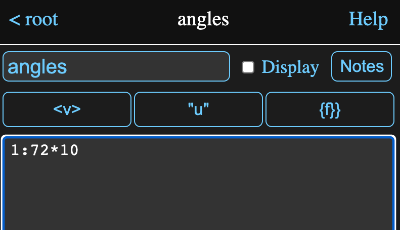
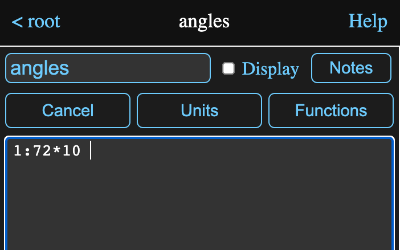
updated help files for new formula editor behaviour

Changed region(s): [[0.0, 0.0304, 1.0, 1.0], [0.03, 0.0609, 0.15, 0.1217]]

diff --git a/help/formulaeditor.html b/help/formulaeditor.html
@@ -9,7 +9,9 @@
 				rtSetupHeading('Formula Editor',{
 					fields: 'Formula Fields',
 					editor: 'Formula Editor',
-					vbrowser: 'Value Browser',
+					preview: 'Previews and Completions',
+					spacing: 'Multiple Lines and Tabs',
+					buttons: "Buttons",
 					ubrowser: 'Unit Browser',
 					fbrowser: 'Function Browser',
 				});
@@ -52,68 +54,103 @@
 					entered or modified, along with a number of buttons and a preview area.
 				</p>
 				<img src="formulaedit.png" alt="formula editor"/>
-				<p>
-					When the formula editor appears, the current formula, if any, will appear in the text area
-					with any cursor position or selection from the formula field maintained. The preview area
-					will show the result of evaluating this formula.
-				</p>
-				<p>
-					As you enter or edit the formula, you can tap the <b>Preview Button</b> or type shift-enter
-					to evaluate the current formula in the preview area. If you select only a part of the formula
-					before previewing, only the selected portion will be evaluated. This is a handy way to debug
-					complicated formulas.
-				</p>
-				<p>
-					Tapping the <b>Current</b> button or type alt-enter (option-enter on a Mac), will once again
-					preview the original formula.
-				</p>
-				<p>
-					In more complex formulas and with some functions, it is common to space the formula out
-					over multiple lines and use tabs to improve the readability. There are a couple of features
-					to assist with this.
-				</p>
-				<p>
-					When you add a new line to an already indented line, the editor will automatically match
-					the indentation.
-				</p>
-				<p>
-					You can increase or decrease the indentation of by selecting multiple lines and then typing
-					<b>tab</b> or <b>shift-tab</b> respectively.
-				</p>
-				<p>
-					The <b>Cancel</b> button (escape key) will exit the formula editor without
-					saving any of the changes. The <b>Apply</b> button <b>(shift-enter)</b> will exit the
-					formula editor and any exit other than cancelling will assign the changes to the formula.
-				</p>
-				<p>
-					The top three buttons open helper views where you can select elements to be inserted into
-					the formula:
-				</p>
-				<div id="vbrowser" class="subsection">
-					<h3>&lt;v&gt; - Value Browser (shift-ctrl-v)</h3>
-					<p>	
-						Shows the available tools and parameters that you can insert into the formula. When
-						first invoked, the available parameters will be the tools in the current model or in the
-						case of the formula belonging to an input expression, the parent
-						<a href="model.html">model</a>.
+				<div id="preview" class="section">
+					<h3>Previews &amp; Completions</h3>
+					<p>
+						When the formula editor appears, the current formula, if any, will appear in the text area
+						with any cursor position or selection from the formula field maintained. What appears in
+						the preview area will depend on the cursor position and the formula.
 					</p>
 					<p>
-						If you select a <a href="model.html">model</a>, then its name will appear below the
-						buttons and the available parameters will be its tools.  When you select another type
-						of tool, the available parameters for that tool will appear.  For instance
-						the <a href="matrix.html">matrix tool</a> has parameters for the number of columns or rows it
-						has.
+						If the cursor is in a position where it appears a reference to another tool might be
+						appropriate, as in the case above where the formula is blank, then a list of available
+						tools appears in the preview area. In this case, the expression has been created in the
+						tools.models.circle model of the Getting Started session and the values represent its tools.
 					</p>
 					<p>
-						In the example below, the first selection was the <a href="model.html">model</a> named
-						"circle", which contains an <a href="expression.html">expression</a> named "area".
-						When area was in turn selected, it was added to the expression below the buttons.
-						Tapping on <b>Insert</b> at this point would insert "circle.area" into the formula.
+						If there are characters in front of the cursor, the list will be reduced to items starting
+						with those characters.
 					</p>
-					<img src="valuebrowser.png" alt="value browser"/>
+					<img src="formulaedit2.png" alt="reduced parameter preview"/>
+					<p>
+						Tapping on a element in the preview area will insert it into the formula. You can also type
+						a tab character or a period to insert the top element of the list, as long as at least one
+						character has already been typed.
+					</p>
+					<p>
+						If the cursor is preceded by a brace, <b>{</b>, then all the available functions are listed
+						in the preview area, with the list being reduced as additional characters are entered.
+					</p>
+					<img src="formulaedit3.png" alt="function preview"/>
+					<p>
+						Tapping on an element of the preview list, or typing a tab character, will insert the
+						function in the formula and place the cursor before the first argument.
+					</p>
+					<img src="formulaedit4.png" alt="inserted function"/>
+					<p>
+						If the cursor is preceded by a ?, white space and the function name, then a brief
+						description of the function and its arguments will appear in the preview area.
+					</p>
+					<img src="formulaedit5.png" alt="function description"/>
+					<p>
+						If the cursor is preceded by a value name and a dot, then the available parameters
+						for that value are listed in the preview area.
+					</p>
+					<img src="formulaedit6.png" alt="dot parameter preview"/>
+					<p>
+						If the cursor isn't preceded by something where a suggestion in appropriate, then the
+						preview area will show the last previewed calculation value. Initially this will be the
+						value of the original formula before editing. 
+					</p>
+					<img src="formulaedit7.png" alt="area va;ue preview"/>
+					<p>
+						Here the cursor is at the end of the formula for area in that circle model and a value
+						reference or function call would not be appropriate.
+					</p>
+					<p>
+						As you enter or edit the formula, you can tap the Preview Button or type ctrl-enter to
+						evaluate the current (edited) formula in the preview area regardless of the cursor position.
+						If you select only a part of the formula before previewing, only the selected portion
+						will be evaluated. This is a handy way to debug complicated formulas.
+					</p>
+					<p>
+						Tapping the <b>Current</b> button or type alt-enter (option-enter on a Mac), will
+						preview the original unedited formula.
+					</p>
 				</div>
-				<div id="ubrowser" class="subsection">
-					<h3>"u" - Unit Browser (ctrl-u)</h3>
+				<div id="spacing" class="section">
+					<h3>Multiple Lines and Tabs</h3>
+					<p>
+						In more complex formulas and with some functions, it is common to space the formula out
+						over multiple lines and use tabs to improve the readability. There are a couple of features
+						to assist with this.
+					</p>
+					<p>
+						When you add a new line to an already indented line, the editor will automatically match
+						the indentation.
+					</p>
+					<p>
+						You can increase or decrease the indentation of by selecting multiple lines and then typing
+						<b>tab</b> or <b>shift-tab</b> respectively.
+					</p>
+				</div>
+				<div id="buttons" class="section">
+					<h3>Buttons</h3>
+					<p>
+						There are a number of buttons in addition to <b>Preview</b> and <b>Current</b>.
+					</p>
+					<p>
+						The <b>Cancel</b> button (escape key) will exit the formula editor without
+						saving any of the changes. The <b>Apply</b> button <b>(shift-enter)</b> will exit the
+						formula editor and any exit other than cancelling will assign the changes to the formula.
+					</p>
+					<p>
+						The <b>Units</b> and <b>Functions</b> buttons open browsers for conversion units and
+						functions respectively.
+					</p>
+				</div>
+				<div id="ubrowser" class="section">
+					<h3>Units Browser (ctrl-u)</h3>
 					<p>	
 						Presents a view where you can select from the available <a href="units.html">units</a>.
 						The left pane contains the defined types and selecting one of those will fill the right
@@ -147,12 +184,13 @@
 						<a href="graph.html">graphs</a>.						
 					</p>
 				</div>
-				<div id="fbrowser" class="subsection">
-					<h3>{f} - Function Browser - (ctrl-f)</h3>
-					<p>	
-						Presents a view where you can browse the available built in Math Minion functions.
-						As you can see in the image below, it has what are hopefully pretty clear
-						instructions on how to use it.
+				<div id="fbrowser" class="section">
+					<h3>Function Browser - (ctrl-f)</h3>
+					<p>
+						While the preview area is handy for entering functions, sometimes you will want
+						to browse the functions and descriptions by category to see what is available. 
+						This is what the function browser does and as you can see in the image below,
+						it has what are hopefully pretty clear instructions on how to use it.
 					</p>
 					<p>
 						In this case the section for trigonometric functions has been selected and then the

diff --git a/help/tutorial.html b/help/tutorial.html
@@ -197,7 +197,7 @@
 				</p>
 				<img src="tutorial/formulaedit3.png" alt="Edited formula">
 				<p>
-					and tap on the <b>"u"</b> button to bring up the
+					and tap on the <b>Units</b> button to bring up the
 					<a href="formulaeditor.html#ubrowser">unit browser</a>. Tap on
 					<b>Dimensionless</b> in the left hand column and then <b>degree</b> in the right
 					column, which should give you this:
@@ -235,35 +235,71 @@
 					icon to the right of the its <a href="formulaeditor.html#fields">formula field</a>.
 				</p>
 				<p>
-					In the resulting <a href="formulaeditor.html#editor">formula editor</a> tap on the
-					<b>{f}</b> button to open a <a href="formulaeditor.html#fbrowser">function browser</a>,
-					which will let you browse through all the functions available for use in
-					<a href="formula.html">formulas</a>.
+					In the resulting <a href="formulaeditor.html#editor">formula editor</a>, if you enter
+					<b>{s</b> in the text editor, you should see something like this:
 				</p>
+				<img src="tutorial/formulaedit5.png" alt="Function preview">
 				<p>
-					They are presented in groups like log functions, trig functions etc., which expand to
-					show the actual functions when you tap on them. Tap on the
-					<b>Trigonometric math functions</b> row and then on <b>{sin x}</b> in the list that is revealed.
-					You should see a description of the function and an <b>Insert</b> button.
+					The preview area now shows all the functions that start with <b>s</b>. If you were to type
+					additional characters, the list would be shortened appropriately, but just tap on
 				</p>
-				<img src="tutorial/fbrowser.png" alt="Function browser">
+				<p class="formula">{sin x}</p>
 				<p>
-					Tap on the <b>Insert</b> button and you will be returned to the function editor with
-					the function inserted and the cursor following the last parameter, which in this case
-					is the single <b>x</b> parameter.
+					to insert the function into your formula to give you this.
 				</p>
-				<img src="tutorial/sinx.png" alt="Sin x">
+				<img src="tutorial/formulaedit6.png" alt="formula inserted">
 				<p>
 					Math Minion functions are always enclosed in curly braces <b>{...}</b>, with the name of
 					the function immediately following the opening brace.  The parameters, if any, follow as
 					a comma separated list followed by the closing brace.
 				</p>
 				<p>
-					Backspace over the <b>x</b> and replace it with <b>angles</b> so the formula is
+					Inserting a function with the function preview or function browser will place the cursor
+					before the first argument. You will almost always have to replace the arguments, but they
+					are included as reminders. If you type a <b>?</b> in front of the first argument, the
+					preview area will show a brief description of the function:
+				</p>
+				<img src="tutorial/formulaedit7.png" alt="preview function description">
+				<p>
+					Remove both the <b>?</b> and the <b>x</b> and you will get the following:
+				</p>
+				<img src="tutorial/formulaedit8.png" alt="parameter preview">
+				<p>
+					The preview area now displays all the available tool names. Typing will reduce the list
+					appropriately, so typing an a will reduce the list to just <b>angles</b>. Hitting
+					<b>Tab</b> after you have entered one or more characters will insert the name at the top
+					of the list into the formula or you can just tap on one of the names in the list. Do either
+					so the formula reads:
 				</p>
 				<p class="formula">
 					{sin angles}
 				</p>
+				<p>	
+					The function preview is handy when you have an idea of what function you want, but you
+					will sometimes want to browse through the functions and their descriptions to see what
+					is available.
+				</p>
+				<p>
+					Tap on the
+					<b>Functions</b> button to open a
+					<a href="formulaeditor.html#fbrowser">function browser</a>.
+				</p>
+				<p>
+					The functions are presented in groups like log functions, trig functions etc.,
+					which expand to show the actual functions when you tap on them.
+				</p>
+				<p>
+						For instance, tap on <b>Trigonometric math functions</b> row and then on
+						<b>{sin x}</b> in the list that is revealed. You should see the description of
+						the function and an <b>Insert</b> button.
+				</p>
+				<img src="tutorial/fbrowser.png" alt="Function browser">
+				<p>
+					Tapping on the <b>Insert</b> button would return you to the function editor with
+					the function inserted, but as we already have the function in our formula, just tap
+					the <b>Cancel</b> button.
+				</p>
+				<img src="tutorial/formulaedit9.png" alt="final sine formula">
 				<p>
 					Tap the <b>Apply</b> button to assign the formula to the <b>sine</b> expression. The
 					information view should now look like this:
@@ -336,7 +372,22 @@
 				<p>
 					Hit return and then click on the graph icon <b>Plot</b> and the correction should be visible:
 				</p>
-				<img src="tutorial/singraph3.png" alt="Sin plot">
+				<img src="tutorial/singraph3.png" alt="Sine plot">
+				<p>
+					Add one last expression named <b>table</b> and enter the its function editor. Type a
+					<b>p</b>, which will reduce the preview list to just <b>plot</b>. Now type a dot and you will
+					see:
+				</p>
+				<img src="tutorial/formulaedit10.png" alt="plot parameter preview">
+				<p>
+					The preview area now shows all the parameters available from the graph tool <b>Plot</b>.
+					There are quite a few, but typing a <b>t</b> should reduce the list to just <b>table</b>
+					and <b>table1</b>. Tap <b>table</b> and apply the formula to get:
+				</p>
+				<img src="tutorial/plottable.png" alt="plot table">
+				<p>
+					which represents the lines of the plot as a table value.
+				</p>
 				<p>
 					To finish up, tap on the <b>Sessions</b> button at the bottom of the information view and then
 					on the <b>Save</b> button. A dialog will appear asking for a name to save the session as:
